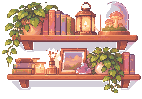
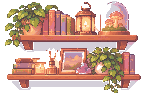
Shelf cleanup: remove leftover cream background specks in leaf gaps and lantern/dome edges, keep lantern and candle glow; curtain sheet cutter (WIP)

diff --git a/src/main.js b/src/main.js
@@ -210,7 +210,7 @@ function frame(ms) {
   drawPrecip(t);              // rain / snow outside, behind the frame
   b.drawImage(shell, 0, 0);   // 1+3. room architecture and window frame (window glass is transparent)
   drawSunbeams(L);
-  for (const k of ['shelves', 'hang']) { const i = LAYOUT[k].img; b.drawImage(i, LAYOUT[k].x, LAYOUT[k].y, i.width / K, i.height / K); }   // wall decor, behind furniture
+  for (const k of ['shelves', 'hang']) { const i = LAYOUT[k].img; b.drawImage(i, LAYOUT[k].x, LAYOUT[k].y, i.width / K, i.height / K); }   // wall decor, drawn over the sunbeams so the light never washes it out
   // 4-7: floor rug first, then furniture on top of it (back to front by floor position)
   const dw = (i) => i.width / K, dh = (i) => i.height / K;   // sprites are 2x art, drawn at room units
   b.drawImage(LAYOUT.rug.img, LAYOUT.rug.x, LAYOUT.rug.y, dw(LAYOUT.rug.img), dh(LAYOUT.rug.img));

diff --git a/tools/art_curtains.py b/tools/art_curtains.py
@@ -1,0 +1,118 @@
+#!/usr/bin/env python3
+"""Cut the 8-frame curtain sheet (art/raw/curtains-v1.png, 4x2 frames, each a rod with a left and a right panel)
+into game assets: a static rod and 8 left + 8 right panel frames in fixed cells, hung from the rod.
+
+Cleanup: the raw alpha is noisy (soft haze, stray specks). Alpha under 200 is dropped, small islands are removed, and the
+art is reduced 2:1 (2x2 block mode) so one art pixel matches one room pixel; the game draws it at that size with no resampling.
+Outputs public/art/curtains.png (cells: row 0 left panels, row 1 right panels), curtains-rod.png, curtains.json.
+"""
+import json
+from pathlib import Path
+import numpy as np
+from PIL import Image
+from collections import deque
+
+ROOT = Path(__file__).resolve().parent.parent
+SRC, OUT = ROOT / "art" / "raw" / "curtains-v1.png", ROOT / "public" / "art"
+FW, FH, R = 543, 362, 2                                     # source frame size, reduction factor
+
+a = np.array(Image.open(SRC).convert("RGBA"))
+a[..., 3] = np.where(a[..., 3] > 200, 255, 0)
+
+
+def islands(mask, minimum):
+    seen = np.zeros_like(mask); H, W = mask.shape
+    for y0 in range(H):
+        for x0 in range(W):
+            if mask[y0, x0] and not seen[y0, x0]:
+                comp, q = [], deque([(y0, x0)]); seen[y0, x0] = True
+                while q:
+                    y, x = q.popleft(); comp.append((y, x))
+                    for dy in (-1, 0, 1):
+                        for dx in (-1, 0, 1):
+                            yy, xx = y + dy, x + dx
+                            if 0 <= yy < H and 0 <= xx < W and mask[yy, xx] and not seen[yy, xx]:
+                                seen[yy, xx] = True; q.append((yy, xx))
+                if len(comp) < minimum:
+                    for y, x in comp: mask[y, x] = False
+    return mask
+
+
+frames = []
+for fi in range(8):
+    c, r = fi % 4, fi // 4
+    f = a[r * FH:(r + 1) * FH, c * FW:(c + 1) * FW].copy()
+    m = islands(f[..., 3] > 0, 400)                          # drop specks and haze fragments
+    f[~m] = 0
+    frames.append(f)
+
+# panel split: the empty gap between the panels, measured below the rod
+def split_of(f):
+    occ = (f[90:, :, 3] > 0).any(0)
+    xs = np.nonzero(~occ)[0]; best = (0, 0)
+    for run in np.split(xs, np.where(np.diff(xs) > 1)[0] + 1):
+        if len(run) > best[1] - best[0] and run[0] > 40 and run[-1] < FW - 40: best = (run[0], run[-1] + 1)
+    return best
+
+def reduce(img):                                            # 2x2 block mode, opaque if at least 2 of 4 pixels are
+    h, w = (img.shape[0] // R) * R, (img.shape[1] // R) * R
+    out = np.zeros((h // R, w // R, 4), np.uint8)
+    for y in range(h // R):
+        for x in range(w // R):
+            blk = img[y * R:y * R + R, x * R:x * R + R].reshape(-1, 4); op = blk[blk[:, 3] > 0]
+            if len(op) >= 2:
+                vals, cnt = np.unique(op, axis=0, return_counts=True); out[y, x] = vals[cnt.argmax()]
+    return out
+
+L, Rt, rods = [], [], []
+for f in frames:
+    g0, g1 = split_of(f)
+    left, right = f.copy(), f.copy()
+    left[:, g0:] = 0; right[:, :g1] = 0
+    rod = f.copy(); rod[:, :g0] = 0; rod[:, g1:] = 0
+    # the rod reaches into each panel's header rows: trim anything beyond the body's own width in the top 40 rows
+    lb = np.nonzero(left[75:95, :, 3].any(0))[0]; rb = np.nonzero(right[75:95, :, 3].any(0))[0]
+    left[:75, lb.max() + 8:] = 0; right[:75, :rb.min() - 8] = 0
+    top = 46
+    lx = np.nonzero(left[top:top + 14, :, 3].any(0))[0].min(); rx = np.nonzero(right[top:top + 14, :, 3].any(0))[0].max()
+    L.append((left, lx)); Rt.append((right, rx)); rods.append((rod, g0, g1))
+
+# align: left panels on their header's left edge, right panels on their header's right edge
+PW, PH, MARGIN = 360, 300, 36                                          # cell size in source pixels (before reduction)
+def place(img, anchor_x, from_right):
+    cell = np.zeros((PH, PW, 4), np.uint8)
+    ys, xs = np.nonzero(img[..., 3] > 0)
+    y0 = 40
+    sub = img[y0:y0 + PH]
+    if from_right:
+        x1 = anchor_x + 1 + MARGIN; x0 = x1 - PW; sx0 = max(0, x0); cell[:sub.shape[0], sx0 - x0:sx0 - x0 + (x1 - sx0)] = sub[:, sx0:x1]
+    else:
+        x0 = max(0, anchor_x - MARGIN); x1 = min(FW, x0 + PW); cell[:sub.shape[0], :x1 - x0] = sub[:, x0:x1]
+    return cell
+
+cellsL = [place(img, ax, False) for img, ax in L]
+cellsR = [place(img, ax, True) for img, ax in Rt]
+cw, ch = PW // R, PH // R
+sheet = np.zeros((2 * ch, 8 * cw, 4), np.uint8)
+for i in range(8):
+    sheet[0:ch, i * cw:(i + 1) * cw] = reduce(cellsL[i])[:ch, :cw]
+    sheet[ch:2 * ch, i * cw:(i + 1) * cw] = reduce(cellsR[i])[:ch, :cw]
+Image.fromarray(sheet).save(OUT / "curtains.png")
+
+# the rod: one modal colour per row taken from the gap between the panels (frame 7), tiled across the panels' span
+rod, g0, g1 = rods[7]
+ys, xs = np.nonzero(rod[:, g0 + 12:g1 - 12, 3] > 0)
+y0r, y1r = ys.min(), ys.max() + 1
+rows = []
+for y in range(y0r, y1r):
+    px = rod[y, g0 + 12:g1 - 12]; px = px[px[:, 3] > 0]
+    vals, cnt = np.unique(px, axis=0, return_counts=True); rows.append(vals[cnt.argmax()] if len(px) else np.zeros(4, np.uint8))
+span = Rt[7][1] - L[7][1] + 1
+rod_img = np.repeat(np.array(rows, np.uint8)[:, None, :], span, axis=1)
+rod_img = reduce(np.repeat(rod_img, 1, axis=0))
+Image.fromarray(rod_img).save(OUT / "curtains-rod.png")
+rod_y = int((y0r - 40) // R)                                 # rod's top, in art pixels below the cell top
+meta = {"cell": [cw, ch], "frames": 8, "scale": "1 art pixel = 1 room pixel (draw at 2 buffer pixels)",
+        "gap_px_source": [int(g0), int(g1)], "span_source": [int(L[7][1]), int(Rt[7][1])], "rod_y": rod_y, "header_x": MARGIN // R}
+json.dump(meta, open(OUT / "curtains.json", "w"), indent=1)
+print(meta, sheet.shape)

diff --git a/tools/art_build.py b/tools/art_build.py
@@ -81,7 +81,19 @@ Image.fromarray(ra).save(OUT / "rug.png")
 # ---- wall pieces (Stage 3): the shelf is cut at 0.1 so one art pixel is one 2x-buffer pixel (71x50 room units);
 # the hanging plant is cut at 2x (56x101 room units). Both are cut from the raw sheets in one pass.
 for n, o in (("shelves-v1", "shelves.png"), ("plant-hanging-v2", "plant-hanging.png")):
-    Image.fromarray(tidy(np.array(Image.open(SRC / f"{n}.png").convert("RGBA")), min_island=60, spur_passes=1)).save(OUT / o)   # drops floating specks
+    wa = np.array(Image.open(SRC / f"{n}.png").convert("RGBA"))
+    cream = (wa[..., 0] > 232) & (wa[..., 1] > 222) & (wa[..., 2] > 205) & (wa[..., 3] > 0)   # leftover cream background caught inside leaf gaps and lantern/dome edges
+    if n == "shelves-v1":                                    # keep the white-hot lantern flame and candle glow: they are not background
+        yy, xx = np.mgrid[0:wa.shape[0], 0:wa.shape[1]]
+        for lt in json.load(open(SRC / "shelves-v1.glow.json"))["lights"]:
+            cream &= ((xx - lt["x"]) ** 2 + (yy - lt["y"]) ** 2) > (lt["radius"] * 0.9) ** 2
+    wa[cream, 3] = 0
+    for _ in range(2):                                       # then peel the pale pixels that now touch the new gaps (soft cream rims on leaves)
+        op = wa[..., 3] > 0
+        edge = op & ~(np.roll(op, 1, 0) & np.roll(op, -1, 0) & np.roll(op, 1, 1) & np.roll(op, -1, 1))
+        l_ = (wa[..., :3].astype(int).sum(-1)) / 765
+        wa[edge & (l_ > 0.86) & (wa[..., 1] > wa[..., 2] + 18), 3] = 0   # pale yellow-cream rims only: keeps white lantern glow and glass highlights
+    Image.fromarray(tidy(wa, min_island=70, spur_passes=1)).save(OUT / o)   # drops floating specks
 shutil.copy(SRC / "shelves-v1.glow.json", OUT / "shelves.glow.json")
 
 # ---- kitty (Stage 4): the 2x sheet, cut from the raw sheet by tools/art_sprites.py (see art/README.md) ----
